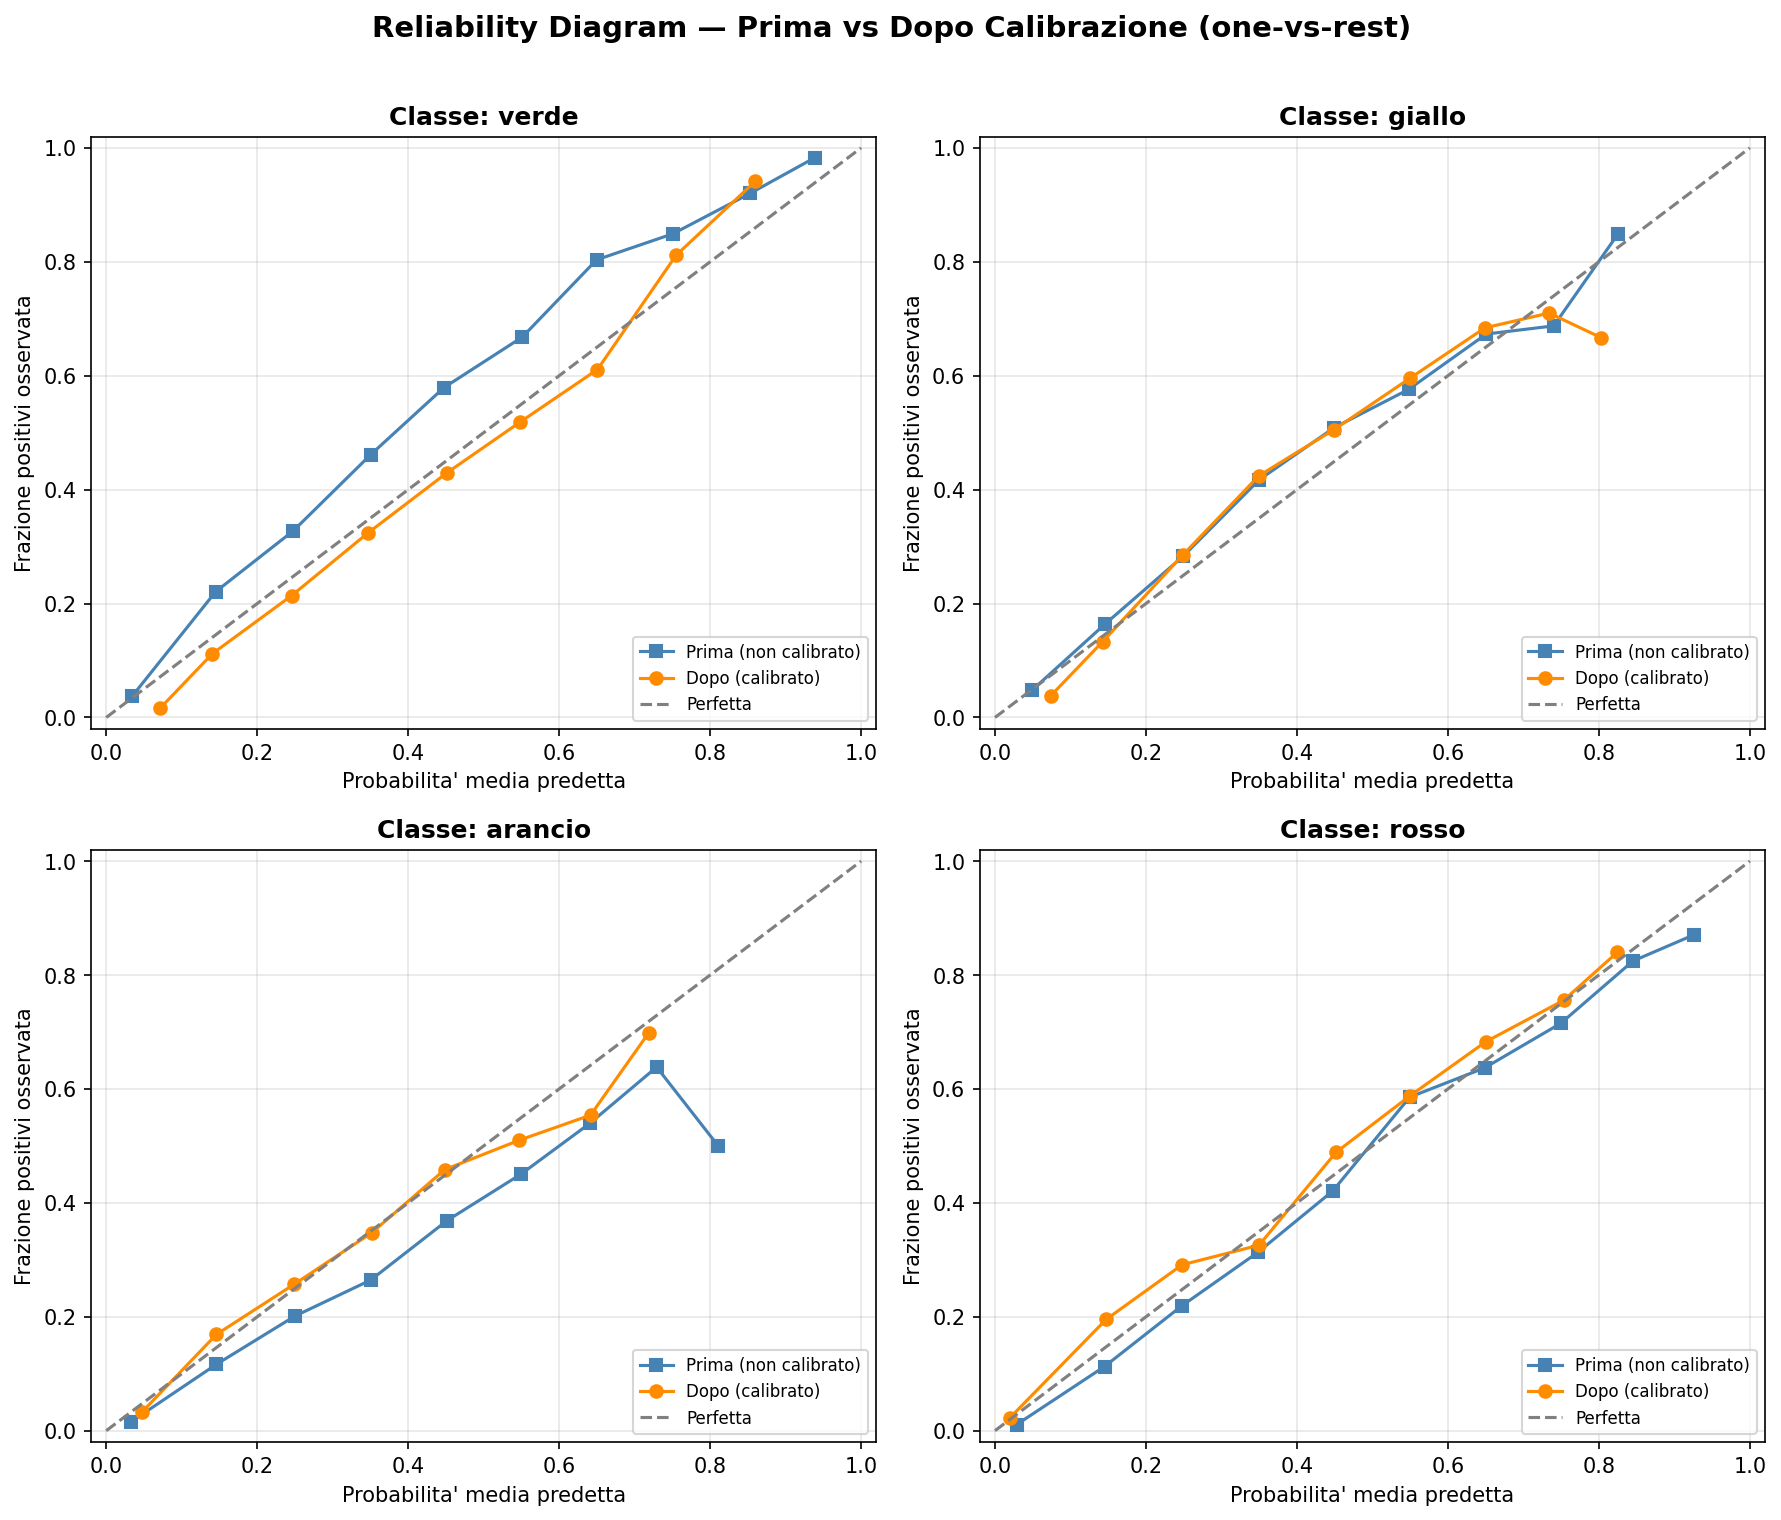
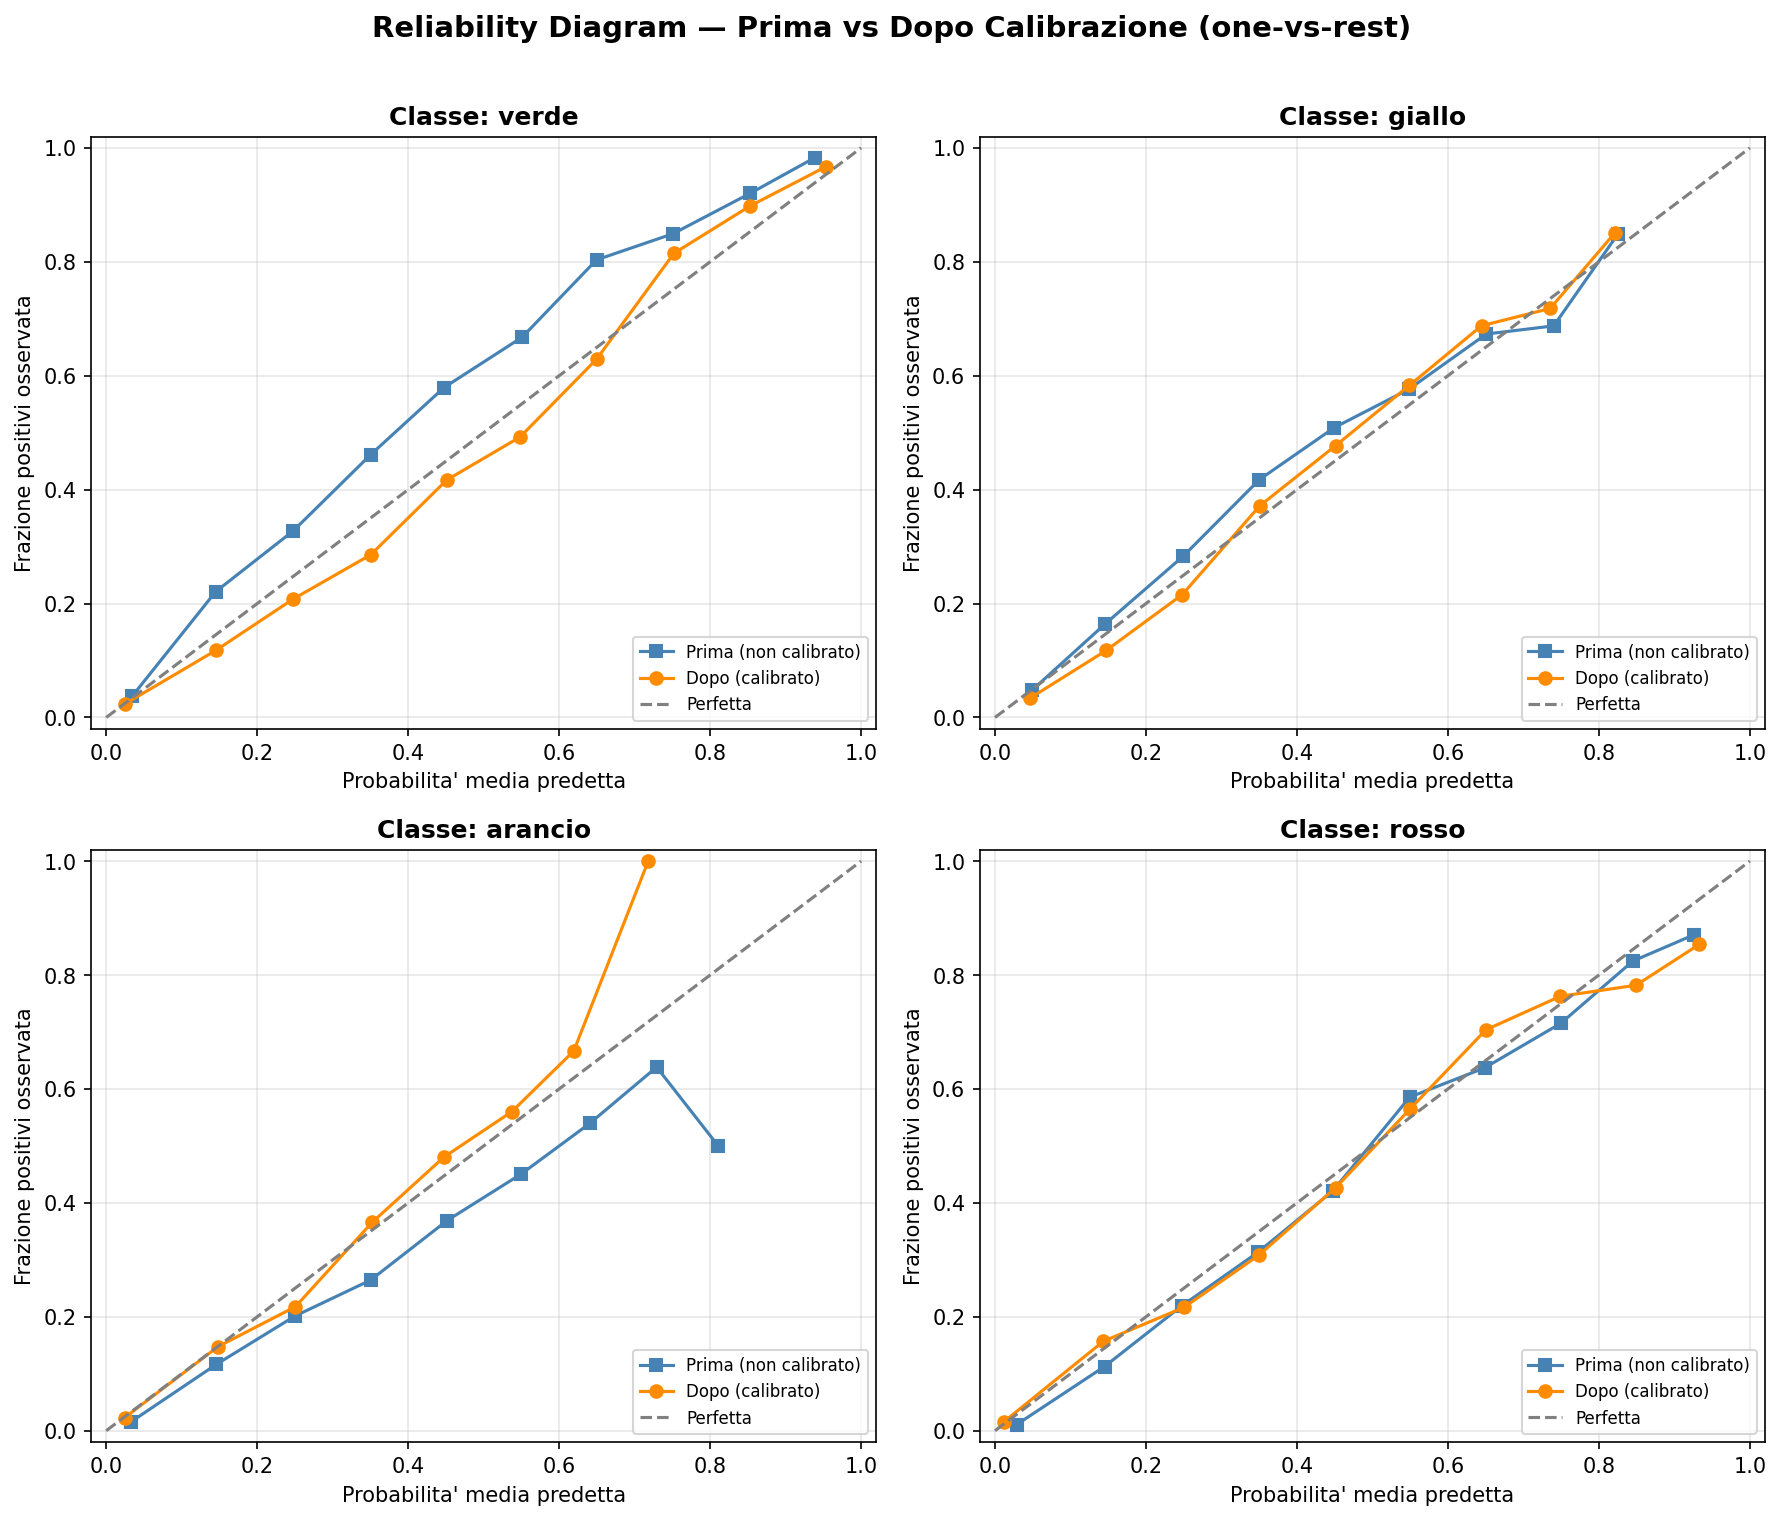
fix: switch calibration method from sigmoid to isotonic in step 5
- Changed CalibratedClassifierCV method from 'sigmoid' to 'isotonic' as isotonic regression achieves lower macro-ECE for intermediate classes (giallo) that were well-calibrated by XGBoost but worsened by Platt scaling
- Updated reliability diagram plot accordingly
- Marked step 5.6 verification tasks as completed in implementation_steps.md

diff --git a/step_5_classification/calibrate.py b/step_5_classification/calibrate.py
@@ -1,7 +1,7 @@
 """Probability calibration for Step 5 — Classification (step 5.5).
 
 Fits ``CalibratedClassifierCV`` on the best model using temporal CV splits
-(sigmoid / Platt scaling), then generates reliability diagrams (one-vs-rest
+(isotonic regression), then generates reliability diagrams (one-vs-rest
 calibration curves) comparing uncalibrated vs. calibrated probabilities for
 each alert class.
 
@@ -184,7 +184,7 @@ def run_calibration(artifacts_dir_path: str | None = None) -> Path:
     Steps:
     1. Load best_model.joblib (uncalibrated) and training data.
     2. Rebuild temporal CV splits from the training dates.
-    3. Fit ``CalibratedClassifierCV(method="sigmoid", cv=tscv)`` on the
+    3. Fit ``CalibratedClassifierCV(method="isotonic", cv=tscv)`` on the
        training set (never on the test set).
     4. Save ``best_model_calibrated.joblib``.
     5. Plot reliability diagrams (before/after) on the test set.
@@ -220,11 +220,11 @@ def run_calibration(artifacts_dir_path: str | None = None) -> Path:
     )
     logger.info("Built %d temporal CV splits for calibration", len(tscv))
 
-    # 4. Fit calibrated model (sigmoid / Platt scaling)
-    logger.info("Fitting CalibratedClassifierCV(method='sigmoid') ...")
+    # 4. Fit calibrated model (isotonic regression)
+    logger.info("Fitting CalibratedClassifierCV(method='isotonic') ...")
     calibrated_model = CalibratedClassifierCV(
         estimator=best_model,
-        method="sigmoid",
+        method="isotonic",
         cv=tscv,
     )
     calibrated_model.fit(X_train, y_train)

diff --git a/implementation_steps.md b/implementation_steps.md
@@ -48,16 +48,16 @@ Per la descrizione tecnica dettagliata di ogni step, vedi [`technical_doc.md`](t
 ### 5.5 Calibrazione probabilità (opzionale)
 
 - [x] Inizializza `tscv = make_temporal_cv_splits(X_train_con_date, n_splits=5)`
-- [x] `CalibratedClassifierCV(best_model, method="sigmoid", cv=tscv).fit(X_train, y_train)` (ATTENZIONE: non fittare mai sul test set)
+- [x] `CalibratedClassifierCV(best_model, method="isotonic", cv=tscv).fit(X_train, y_train)` (ATTENZIONE: non fittare mai sul test set)
 - [x] Salva `best_model_calibrated.joblib`
 - [x] Reliability diagram (calibration curve one-vs-rest) prima/dopo per ogni classe
 
 ### 5.6 Verifica
 
-- [ ] `python -m step_5_classification.train` completa senza errori
-- [ ] `python -m step_5_classification.evaluate` completa senza errori
-- [ ] `classification_metrics.json` presente con valori plausibili (f1_macro > 0)
-- [ ] Tutti i plot di confusion matrix salvati in `artifacts/plots/`
+- [x] `python -m step_5_classification.train` completa senza errori
+- [x] `python -m step_5_classification.evaluate` completa senza errori
+- [x] `classification_metrics.json` presente con valori plausibili (f1_macro > 0)
+- [x] Tutti i plot di confusion matrix salvati in `artifacts/plots/`
 
 ---
 

diff --git a/technical_doc.md b/technical_doc.md
@@ -622,8 +622,8 @@ StandardScaler → LogisticRegression(penalty='elasticnet', solver='saga', class
 
 ### 12.5 Calibrazione delle Probabilità (opzionale)
 
-`CalibratedClassifierCV(method='sigmoid')` sul miglior modello post-tuning.  
-**Motivazione:** per un sistema di allerta pubblica, "73% probabilità di Rosso" è più utile di un semplice label. Il metodo `sigmoid` è più stabile di `isotonic` con 4 classi su un dataset non enorme.
+`CalibratedClassifierCV(method='isotonic')` sul miglior modello post-tuning.  
+**Motivazione:** per un sistema di allerta pubblica, "73% probabilità di Rosso" è più utile di un semplice label. Il metodo `isotonic` (regressione isotonica non-parametrica) ottiene un macro-ECE inferiore rispetto a `sigmoid` (Platt scaling), che tendeva a peggiorare la calibrazione delle classi intermedie (giallo) già ben calibrate dal modello XGBoost.
 
 ---
 
